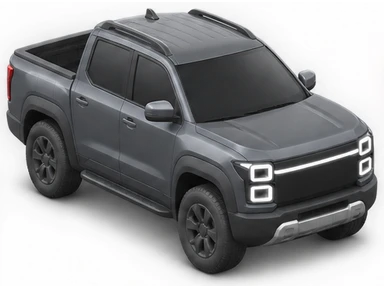
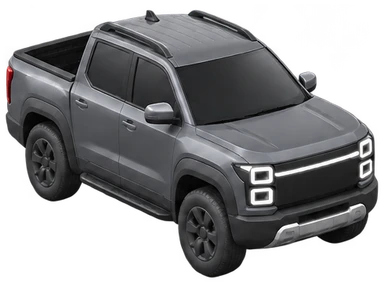
Remove visible backgrounds from map artwork

diff --git a/lib/map-role-icon.ts b/lib/map-role-icon.ts
@@ -1,6 +1,6 @@
 import { divIcon } from "leaflet";
 import { journeyRoleArtClass, type JourneyRoleArt } from "./journey-role-art";
-import { vehicleArtwork, isVehicleArtworkPath } from "./vehicle-catalogue";
+import { vehicleArtwork, isVehicleArtworkPath, vehicleArtworkDisplayPath } from "./vehicle-catalogue";
 import type { Vehicle } from "./vehicle";
 
 export const modelMarkerIcon = (
@@ -16,7 +16,7 @@ export const modelMarkerIcon = (
     : undefined;
   // src is catalogue-derived, never a user-supplied URL or HTML fragment.
   const art = src
-    ? `<img class="vehicle-artwork-marker" src="${src}" alt="" aria-hidden="true" />`
+    ? `<img class="vehicle-artwork-marker" src="${vehicleArtworkDisplayPath(src)}" alt="" aria-hidden="true" />`
     : `<i class="${journeyRoleArtClass(role)}" aria-hidden="true"></i>`;
   return divIcon({
     className: "journey-marker-icon",

diff --git a/tests/vehicle-catalogue.test.ts b/tests/vehicle-catalogue.test.ts
@@ -9,7 +9,19 @@ import {
   validVehicleYear,
   vehicleYearOptions,
   isVehicleArtworkPath,
+  vehicleArtworkDisplayPath,
 } from "../lib/vehicle-catalogue";
+
+test("corrected catalogue artwork receives a fresh display URL", () => {
+  for (const model of ["byd-shark6", "isuzu-dmax", "toyota-rav4"]) {
+    const path = `/brand/vehicles/v1/${model}-white.webp`;
+    assert.equal(isVehicleArtworkPath(path), true);
+    assert.equal(vehicleArtworkDisplayPath(path), `${path}?background=2`);
+    assert.equal(isVehicleArtworkPath(vehicleArtworkDisplayPath(path)), false);
+  }
+  const unchanged = "/brand/vehicles/v1/ford-ranger-blue.webp";
+  assert.equal(vehicleArtworkDisplayPath(unchanged), unchanged);
+});
 
 test("map artwork accepts shipped local paths only", () => {
   assert.equal(isVehicleArtworkPath('/brand/vehicles/v1/ford-ranger-blue.webp'), true);

diff --git a/app/globals.css b/app/globals.css
@@ -759,7 +759,7 @@ button:disabled {
   width: 47.012579%;
   height: 95.833333%;
   left: 26.493711%;
-  background-image: url("/brand/journey-person-standing-v1.webp");
+  background-image: url("/brand/journey-person-standing-v2.webp");
   background-size: contain;
   background-position: center bottom;
 }
@@ -772,7 +772,7 @@ button:disabled {
 .role-card-primary .journey-role-art-rider::before,
 .primary .journey-role-art-rider::before,
 .journey-role-art-rider.journey-role-art-on-dark::before {
-  background-image: url("/brand/journey-person-standing-v1-on-dark.webp");
+  background-image: url("/brand/journey-person-standing-v2-on-dark.webp");
 }
 .journey-marker.journey-marker-model {
   width: var(--marker-role-size);

diff --git a/components/vehicle-artwork.tsx b/components/vehicle-artwork.tsx
@@ -1,4 +1,4 @@
-import { vehicleArtwork } from "@/lib/vehicle-catalogue";
+import { vehicleArtwork, vehicleArtworkDisplayPath } from "@/lib/vehicle-catalogue";
 import type { Vehicle } from "@/lib/vehicle";
 
 /** Vehicle images are illustrations; the accompanying plate/text remains authoritative. */
@@ -9,7 +9,7 @@ export default function VehicleArtwork({ vehicle }: { vehicle?: Vehicle }) {
     // eslint-disable-next-line @next/next/no-img-element
     <img
       className="vehicle-artwork-preview"
-      src={src}
+      src={vehicleArtworkDisplayPath(src)}
       width={192}
       height={144}
       alt="Vehicle illustration"

diff --git a/lib/vehicle-catalogue.ts b/lib/vehicle-catalogue.ts
@@ -290,3 +290,10 @@ const artworkPaths = new Set(VEHICLE_MODELS.flatMap(model =>
 export function isVehicleArtworkPath(value: unknown): value is string {
   return typeof value === "string" && artworkPaths.has(value);
 }
+
+/** Refresh corrected artwork without changing the allowlisted API paths. */
+export function vehicleArtworkDisplayPath(path: string): string {
+  return /^\/brand\/vehicles\/v1\/(byd-shark6|isuzu-dmax|toyota-rav4)-/.test(path)
+    ? `${path}?background=2`
+    : path;
+}

diff --git a/scripts/check-vehicle-map-consistency.py b/scripts/check-vehicle-map-consistency.py
@@ -3,7 +3,9 @@ Run: /tmp/gumwheel-notification-check-env/bin/python scripts/check-vehicle-map-c
 No production writes/providers. Scheduled polls paused to expose missing save signals.
 """
 import json
+import os
 from datetime import datetime, timezone
+from urllib.parse import urlparse
 from playwright.sync_api import sync_playwright, expect
 BASE='http://127.0.0.1:3201'
 origin={'latitude':-33.918,'longitude':151.204,'label':'Example origin, Sydney'}
@@ -12,12 +14,14 @@ with sync_playwright() as p:
     browser=p.chromium.launch(executable_path='/usr/bin/chromium',args=['--no-sandbox'])
     for width in [390,1440]:
         context=browser.new_context(viewport={'width':width,'height':900})
-        state={'vehicle':{'plate':'PRIVATE1','make':'Ford','model':'Ranger','year':'2025','colour':'Blue',
-               'selection':{'make':'Ford','model':'ford-ranger','year':'2025','colour':'Blue'}}}
+        state={'vehicle':{'plate':'PRIVATE1','make':'BYD','model':'Shark 6','year':'2025','colour':'White',
+               'selection':{'make':'BYD','model':'byd-shark6','year':'2025','colour':'White'}}}
         errors=[]
         def artwork():
             v=state['vehicle']
-            return '/brand/vehicles/v1/ford-ranger-'+v['colour'].lower()+'.webp' if v.get('selection',{}).get('colour') else None
+            return '/brand/vehicles/v1/byd-shark6-'+v['colour'].lower()+'.webp' if v.get('selection',{}).get('colour') else None
+        def displayed_artwork():
+            return artwork()+'?background=2' if artwork() else None
         def api(r):
             path=r.request.url.split('/api/')[-1].split('?')[0]
             now=datetime.now(timezone.utc).isoformat()
@@ -50,14 +54,18 @@ with sync_playwright() as p:
                 r.fulfill(content_type='image/svg+xml',body='<svg xmlns="http://www.w3.org/2000/svg" viewBox="0 0 24 24"><circle cx="12" cy="12" r="8" fill="#64748b"/></svg>');return
             else:data={}
             r.fulfill(json=data)
-        context.route('**/*',lambda r:r.continue_() if r.request.url.startswith(BASE) else r.abort())
+        def network(r):
+            host=urlparse(r.request.url).hostname or ''
+            if r.request.url.startswith(BASE) or (os.environ.get('GUMWHEEL_TEST_TILES')=='1' and host.endswith('.tile.openstreetmap.org') and r.request.method=='GET'):r.continue_()
+            else:r.abort()
+        context.route('**/*',network)
         context.route('**/api/**',api)
         context.add_init_script('const oldTimeout=setTimeout,oldInterval=setInterval;window.setTimeout=(fn,ms,...args)=>ms===8000?0:oldTimeout(fn,ms,...args);window.setInterval=(fn,ms,...args)=>[15000,60000].includes(ms)?0:oldInterval(fn,ms,...args)')
         def page():
             result=context.new_page();result.on('pageerror',lambda e:errors.append(str(e)));return result
         home=page();home.goto(BASE)
         feed=home.locator('.home-presence')
-        expect(feed.locator('.vehicle-artwork-marker')).to_have_attribute('src',artwork())
+        expect(feed.locator('.vehicle-artwork-marker')).to_have_attribute('src',displayed_artwork())
         expect(feed.locator('.journey-role-art-driver')).to_have_count(1)
         expect(feed.locator('.leaflet-marker-icon')).to_have_count(3)
         expect(feed.locator('button,.leaflet-popup,.leaflet-tooltip')).to_have_count(0)
@@ -67,12 +75,12 @@ with sync_playwright() as p:
         find.add_init_script('sessionStorage.setItem("cocowheels:find-ride-draft:v1",JSON.stringify({...'+json.dumps({'pickup':origin,'destination':end,'departureAt':None})+',savedAt:Date.now()}));')
         find.goto(BASE+'/?start=rider')
         expect(find.locator('.ride-option')).to_have_count(1)
-        expect(find.locator('.ride-selection-map .vehicle-artwork-marker')).to_have_attribute('src',artwork())
+        expect(find.locator('.ride-selection-map .vehicle-artwork-marker')).to_have_attribute('src',displayed_artwork())
         find.screenshot(path=f'/tmp/vehicle-everywhere-find-{width}.png',full_page=True)
         find.goto(BASE+'/rides/COCO-TEST')
-        expect(find.locator('.vehicle-artwork-marker')).to_have_attribute('src',artwork())
+        expect(find.locator('.vehicle-artwork-marker')).to_have_attribute('src',displayed_artwork())
         own=page();own.goto(BASE+'/activity/offers/sent1')
-        expect(own.locator('.vehicle-artwork-marker')).to_have_attribute('src',artwork())
+        expect(own.locator('.vehicle-artwork-marker')).to_have_attribute('src',displayed_artwork())
         own.screenshot(path=f'/tmp/vehicle-everywhere-offer-{width}.png',full_page=True)
         profile=page();profile.goto(BASE+'/usual-route')
         details=profile.locator('.vehicle-details');details.locator('summary').click()
@@ -80,7 +88,7 @@ with sync_playwright() as p:
         details.get_by_role('button',name='Save vehicle details',exact=True).click()
         expect(details.get_by_role('status')).to_be_visible()
         for target in [home,find,own]:
-            expect(target.locator('.vehicle-artwork-marker')).to_have_attribute('src',artwork(),timeout=2000)
+            expect(target.locator('.vehicle-artwork-marker')).to_have_attribute('src',displayed_artwork(),timeout=2000)
             expect(target.locator('.map-attribution')).to_have_count(1)
             expect(target.locator('.map-attribution')).to_have_css('left','7px')
             assert target.evaluate('document.documentElement.scrollWidth<=innerWidth')

diff --git a/scripts/check-journey-role-art.py b/scripts/check-journey-role-art.py
@@ -58,11 +58,11 @@ with sync_playwright() as p:
     expect(page.locator('.role-card-primary .journey-role-art')).to_have_count(1)
     dark=page.locator('.role-card-primary .journey-role-art').evaluate('(el)=>getComputedStyle(el, "::before").backgroundImage')
     light=page.locator('.role-card:not(.role-card-primary) .journey-role-art').evaluate('(el)=>getComputedStyle(el, "::before").backgroundImage')
-    assert 'journey-person-standing-v1-on-dark.webp' in dark and 'journey-roles-3d-v1.webp' in light,(dark,light)
-   decoded=page.evaluate('''async () => Promise.all(['journey-roles-3d-v1','journey-roles-3d-v1-on-dark','journey-person-standing-v1','journey-person-standing-v1-on-dark'].map(async variant => {const i=new Image();i.src='/brand/'+variant+'.webp';await i.decode();return [i.naturalWidth,i.naturalHeight];}))''')
+    assert 'journey-person-standing-v2-on-dark.webp' in dark and 'journey-roles-3d-v1.webp' in light,(dark,light)
+   decoded=page.evaluate('''async () => Promise.all(['journey-roles-3d-v1','journey-roles-3d-v1-on-dark','journey-person-standing-v2','journey-person-standing-v2-on-dark'].map(async variant => {const i=new Image();i.src='/brand/'+variant+'.webp';await i.decode();return [i.naturalWidth,i.naturalHeight];}))''')
    assert decoded==[[532,266],[532,266],[128,256],[128,256]],decoded
    for icon in page.locator('.journey-role-art').all():
-    expected=icon.evaluate('''el => {const rider=el.classList.contains('journey-role-art-rider');const dark=!!el.closest('.role-card-primary, .primary, .journey-role-art-on-dark');return (rider?'journey-person-standing-v1':'journey-roles-3d-v1')+(dark?'-on-dark':'')+'.webp'}''')
+    expected=icon.evaluate('''el => {const rider=el.classList.contains('journey-role-art-rider');const dark=!!el.closest('.role-card-primary, .primary, .journey-role-art-on-dark');return (rider?'journey-person-standing-v2':'journey-roles-3d-v1')+(dark?'-on-dark':'')+'.webp'}''')
     assert expected in icon.evaluate('(el)=>getComputedStyle(el, "::before").backgroundImage')
     expect(icon).to_have_attribute('aria-hidden','true')
     assert icon.evaluate('(el)=>el.tabIndex')==-1

diff --git a/docs/JOURNEY_ROLE_ART.md b/docs/JOURNEY_ROLE_ART.md
@@ -1,5 +1,33 @@
 # Journey role artwork — 4 November 2026
 
+## Transparent artwork cleanup — 5 November 2026
+
+The standing-person light and dark surface WebPs now use v2 assets, cleaned using
+image generation to remove the studio/checkerboard residue while retaining the
+standing pose. The existing generic car is unchanged. The BYD Shark 6, Isuzu
+D-Max and Toyota RAV4 six-colour sheets were also cleaned and prepared again;
+their source images and original source references are recorded in the vehicle
+catalogue manifest. Some other models retain subtle original shadows; this is
+not a blanket rework of the entire catalogue.
+
+Profile and shared map markers add `?background=2` to those three models' image
+display URLs to avoid reusing cached older images. Server-supplied artwork paths
+remain the existing strict allowlisted paths. All other display paths are unchanged.
+This modifies presentation only, with no API or privacy change.
+
+The cleaned standing-person source images are retained in the local generated
+image archive as `exec-b6001ce1-b93a-445a-a23c-755a299fb3b1.png` (light) and
+`exec-fde97822-0e1c-4fab-9dd7-f3cb9e77d21e.png` (dark). They were resized to
+the existing 128×256 WebP slots. Image generation can change small details; the
+before/after illustrations were reviewed against light and dark backgrounds.
+
+On 5 November, `npm test` (253 tests), `npm run lint`, `npm run build`,
+`scripts/check-journey-role-art.py` and `scripts/check-vehicle-map-consistency.py`
+passed. The local synthetic-data checks covered 390px and 1440px screens; Home
+and Find screenshots were visually reviewed with public OSM tiles. They cover the
+white BYD and the generic car/person, not every model or real device. Production
+appearance and deployment remain to be verified separately.
+
 5 November: [personal vehicle illustrations](VEHICLE_CATALOGUE.md) initially extended
 owner and accepted-pair driver map markers; the later [all-map extension](VEHICLE_MAPS_2026-11-05.md)
 supersedes the Home/discovery-generic restriction. Generic car/person artwork

diff --git a/docs/VEHICLE_CATALOGUE.md b/docs/VEHICLE_CATALOGUE.md
@@ -1,5 +1,15 @@
 # Vehicle catalogue — 5 November 2026
 
+## Background cleanup — 5 November 2026
+
+The six colour assets for BYD Shark 6, Isuzu D-Max and Toyota RAV4 were recreated
+from cleaned transparent sheets to remove visible studio backgrounds. The
+manifest records each original and cleaned source. These model illustrations use
+a versioned display query in Profile and maps so browsers fetch the corrected
+files; API allowlisted URLs and catalogue selections are unchanged. Other model
+artwork was not regenerated and may retain subtle generated shadows. See
+[journey artwork](JOURNEY_ROLE_ART.md#transparent-artwork-cleanup--5-november-2026).
+
 ## Agreed scope and research
 
 20 make/model combinations total, six colours, typed alternatives always supported.

diff --git a/README.md b/README.md
@@ -1,5 +1,10 @@
 # GUMWHEEL
 
+5 November artwork cleanup: the standing-person variants and BYD Shark 6, Isuzu
+D-Max and Toyota RAV4 colour illustrations have cleaned transparent backgrounds.
+Their display URLs refresh cached artwork; API artwork paths stay unchanged.
+See [artwork cleanup](docs/JOURNEY_ROLE_ART.md#transparent-artwork-cleanup--5-november-2026).
+
 5 November custom cars across maps: supported saved vehicle selections now supply
 the same artwork in signed-in Find/preview maps, the driver's request-discovery
 and offer maps, private journey maps and anonymous Home area markers. Home shares
